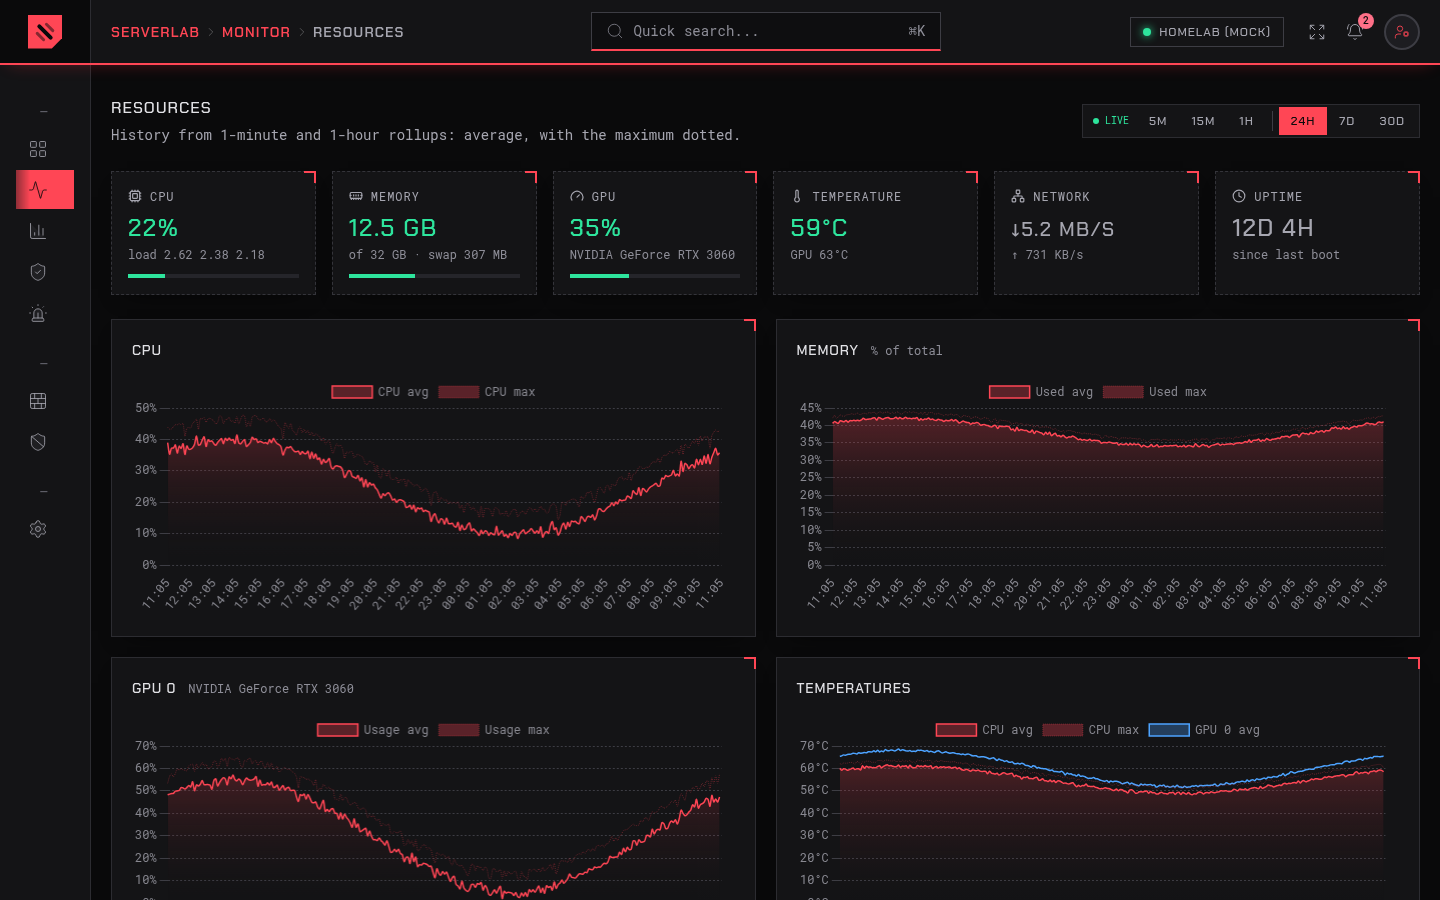
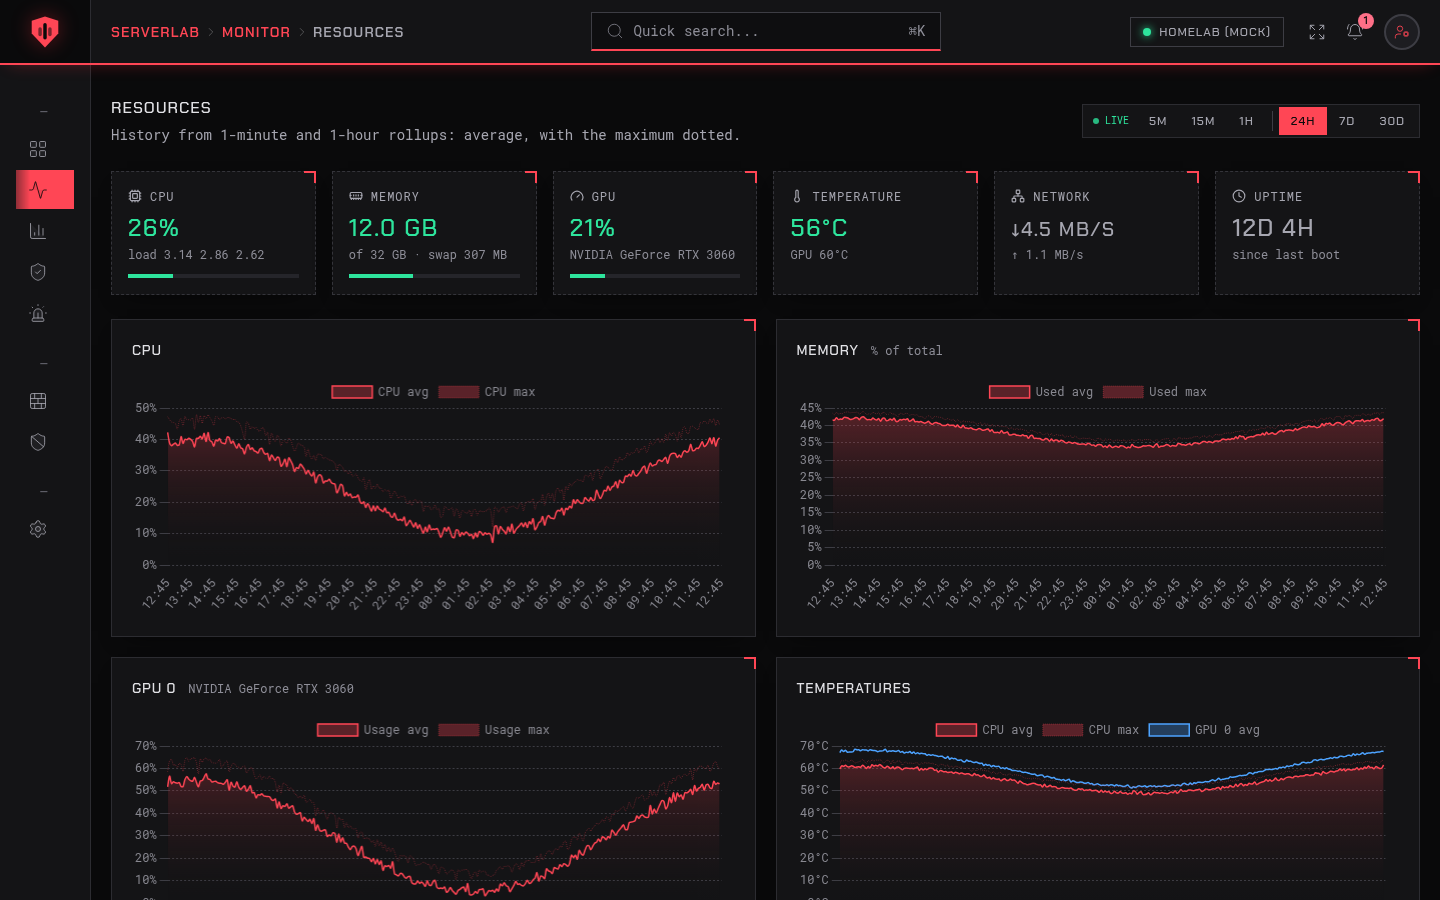
Release 1.0.0
Showcase README with every feature and fresh screenshots (new logo,
mock data), a changelog, and version 1.0.0 in package.json and the
collector.

diff --git a/collector/index.ts b/collector/index.ts
@@ -18,7 +18,7 @@ import { loginEvents } from "@/lib/schema/watcher";
 import { storeLoginEvent } from "@/lib/watcher/login-event-store";
 import { readEnvironment } from "@/lib/environment";
 
-const COLLECTOR_VERSION = "0.1.0";
+const COLLECTOR_VERSION = "1.0.0";
 const SAMPLE_INTERVAL_MILLISECONDS = Math.max(1000, Number(readEnvironment("SAMPLE_INTERVAL_MS") ?? 2000));
 const JOURNAL_CURSOR_KEY = "watcher.journalCursor";
 const BACKFILL_STATE_KEY = "watcher.backfill";

diff --git a/README.md b/README.md
@@ -1,85 +1,121 @@
 <p align="center">
   <picture>
     <source media="(prefers-color-scheme: dark)" srcset="branding/logo-dark.svg">
-    <img src="branding/logo-light.svg" alt="ServerLab" width="360">
+    <img src="branding/logo-light.svg" alt="ServerLab" width="380">
   </picture>
 </p>
 
 <p align="center">
-  A small, Grafana-like dashboard for <strong>one homelab server</strong>.<br>
-  It runs on the server it watches, keeps everything in SQLite, and is reachable only over your Tailscale tailnet.
+  <strong>A small, Grafana-like dashboard for one homelab server.</strong><br>
+  Watch what runs on it, how hard it works and who signs in, and manage its firewall and fail2ban from pages that teach you the command line.
 </p>
 
 <p align="center">
+  <a href="https://github.com/JoshWAMiasco/server_lab/releases/latest"><img alt="Release" src="https://img.shields.io/badge/release-v1.0.0-ff4655"></a>
+  <a href="https://github.com/JoshWAMiasco/server_lab/actions/workflows/ci.yml"><img alt="CI" src="https://github.com/JoshWAMiasco/server_lab/actions/workflows/ci.yml/badge.svg"></a>
   <a href="LICENSE"><img alt="MIT license" src="https://img.shields.io/badge/license-MIT-ff4655"></a>
   <img alt="Ubuntu Server 22.04 to 26.04" src="https://img.shields.io/badge/Ubuntu%20Server-22.04%20%E2%80%93%2026.04-ff4655">
   <img alt="Node.js 22 or later" src="https://img.shields.io/badge/node-%E2%89%A522-ff4655">
 </p>
 
-![The Resources page: CPU, memory, GPU and temperature history](docs/screenshots/resources.png)
-
-## What it shows
-
-ServerLab answers a handful of questions about your box, quickly:
-
-| Page | What you get |
-|---|---|
-| **Lobby** | Everything hosted on the server: Docker containers, systemd services, nginx sites and databases, with icons, health, uptime and "Open" links. Flags anything exposed to your LAN instead of only the tailnet. Add what it misses by hand. |
-| **Resources** | Live CPU, GPU (NVIDIA, AMD, Intel, several at once), memory, temperatures, network and disk, plus 24 h / 7 d / 30 d history. |
-| **Applications** | CPU and memory per app, ranked, as a share of the host and in real units. |
-| **User Watcher** | SSH and web logins with user, time, result and offline geolocation. Imports the history already on the server. |
-| **Alerts** | High CPU, disk almost full, SSH brute force, login from a new country, service down, certificate expiring. Sent to ntfy, Discord, Telegram or in-app. |
-| **Firewall** | UFW on/off, default policies, numbered rules, add and delete rules. **Every control shows the `ufw` command it runs.** |
-| **fail2ban** | Jails, banned addresses, unban and manual ban, or the setup steps when fail2ban isn't installed. **Every control shows the `fail2ban-client` command it runs.** |
-
-### Learn the command line while you click
-
-The Firewall and fail2ban pages are built to teach. Fill in the add-rule form and the exact command updates as you type. Every change shows the command that ran, with its output, in an activity log, and each page ends with a short reference of related commands. Anything you do in the UI, you can copy and do yourself over SSH.
-
-| Firewall | fail2ban |
-|---|---|
-| ![Firewall page](docs/screenshots/firewall.png) | ![fail2ban page](docs/screenshots/fail2ban.png) |
-
-The Firewall page refuses to turn UFW on, or to remove the last rule that lets you in over SSH or Tailscale, unless you confirm you have another way into the machine.
-
-### On your phone
-
-The menu becomes a drawer on small screens: tap outside it, tap a link, or press Escape to close it.
-
-<p>
-  <img src="docs/screenshots/mobile-menu.png" alt="Mobile menu drawer" width="260">
-  &nbsp;
-  <img src="docs/screenshots/mobile-firewall.png" alt="Firewall page on a phone" width="260">
+<p align="center">
+  <a href="#features">Features</a> ·
+  <a href="#install">Install</a> ·
+  <a href="#security-model">Security model</a> ·
+  <a href="#develop">Develop</a> ·
+  <a href="docs/HARDENING.md">Hardening guide</a>
 </p>
 
-## How it works
+![ServerLab Resources page: CPU, memory, GPU and temperature history for the last 24 hours](docs/screenshots/resources.png)
 
-```
- browser ──tailnet──▶ nginx (Tailscale IP, TLS) ──▶ serverlab-web  (Next.js, 127.0.0.1:3000)
-                                                         │ reads / writes requests
-                                                         ▼
-                                                   SQLite (/var/lib/serverlab)
-                                                         ▲ writes samples, runs requests
-                                                         │
-                                                  serverlab-collector ──▶ /proc, /sys, Docker (GET only),
-                                                         │                 journal, nginx configs, GPU tools
-                                                         ▼ only for firewall / fail2ban changes
-                                       serverlab-host-action.service (root, one-shot, ufw + fail2ban-client only)
-```
+## Why ServerLab
 
-- **Two unprivileged services.** `serverlab-web` and `serverlab-collector` run as the `serverlab` user with a strict systemd sandbox. The web process never touches the host.
-- **Read-only monitoring.** ServerLab never starts, stops or changes containers and services.
-- **Two narrow ways to change the host**, both through polkit rules that allow starting exactly one kind of root unit:
-  - the Firewall and fail2ban pages, through a small root helper that re-checks every request and runs only `ufw` and `fail2ban-client`, without a shell;
-  - an opt-in NVIDIA GPU power switch on hybrid-graphics laptops.
+Most monitoring stacks are built for fleets: a time-series database, an agent, a dashboard server and an afternoon of configuration. ServerLab is for the one box under your desk.
 
-  Details and how to remove them: [HARDENING §6](docs/HARDENING.md#6-serverlab-process-privileges).
+- **One install, no extra services.** It runs on the server it watches and keeps everything in a single SQLite file.
+- **Private by default.** It is reachable only over your [Tailscale](https://tailscale.com) tailnet, behind nginx, with one admin account.
+- **Knows a homelab.** It finds your Docker containers, systemd services, nginx sites and databases on its own, and tells you when something is exposed to your LAN.
+- **Teaches as you go.** The Firewall and fail2ban pages show the exact `ufw` and `fail2ban-client` command behind every button.
 
-Built with Next.js 16, React 19, Tailwind CSS 4, SQLite (better-sqlite3 + Drizzle), Chart.js and Server-Sent Events.
+## Features
+
+### Lobby: everything hosted on the server
+
+Cards for every container, service, website and database, with icons, health, uptime and an **Open** link. Anything listening on your LAN instead of only the tailnet gets an "Exposed to LAN" warning. Add what it misses by hand, with your own icon.
+
+![Lobby page with app cards and an exposed-to-LAN warning](docs/screenshots/lobby.png)
+
+### Resources: live and historical metrics
+
+CPU (total and per core), memory and swap, GPUs (NVIDIA, AMD and Intel, several at once), temperatures, network, disk usage and I/O. Live every 2 seconds, with 24-hour, 7-day and 30-day history.
+
+### Applications: who is using the box
+
+CPU and memory per container and per service, ranked, as a share of the host and in the same units `docker stats` and `systemctl status` use.
+
+![Applications page ranking apps by memory](docs/screenshots/applications.png)
+
+### User Watcher: who signed in, and from where
+
+SSH, console and ServerLab sign-ins with result, method, address and offline geolocation (country and city). Tailnet devices are named. History already on the server is imported on first run.
+
+![User Watcher with logins over time and failed attempts by country](docs/screenshots/user-watcher.png)
+
+### Alerts
+
+Ready-made rules for high CPU or memory, hot CPU or GPU, disk almost full, SSH brute force, login from a new country, a service going down or becoming exposed, and an expiring TLS certificate. Edit them or add your own. Alerts appear in the app and can go to **ntfy**, **Discord** or **Telegram**.
+
+![Alerts page with rules and an in-app brute-force alert](docs/screenshots/alerts.png)
+
+### Firewall: manage UFW, learn UFW
+
+Turn UFW on and off, set the default policies and logging, read the numbered rules and delete them, and add rules from a form with presets. **Every control shows the command it runs**, and the preview updates as you type:
+
+![Add-rule form showing the live ufw command](docs/screenshots/firewall-add-rule.png)
+
+- The page won't turn the firewall on, or remove the last rule that lets you in over SSH or Tailscale, until you confirm you have another way into the machine.
+- While UFW is off, it shows your saved rules (`ufw show added`), so you can check them before enabling.
+- A built-in reference lists the commands for everything else, plus the classic Docker-bypasses-UFW gotcha.
+
+![Firewall page with status, default policies and numbered rules](docs/screenshots/firewall.png)
+
+### fail2ban: see bans, lift bans
+
+Every jail with its failed and banned counts, ban rules ("5 tries in 10m, banned for 1h") and the banned addresses, each with an **Unban** button. Ban an address by hand. If fail2ban isn't installed or running, the page walks you through setting it up and gives you a starter `jail.local` that never bans your tailnet.
+
+| A jail | The activity log |
+|---|---|
+| ![sshd jail with banned addresses and unban buttons](docs/screenshots/fail2ban-jail.png) | ![Activity log showing the fail2ban-client command and its output](docs/screenshots/fail2ban-activity.png) |
+
+Every change lands in an activity log with the exact command that ran, its exit code and its output, so you can repeat it in a terminal.
+
+### Works on your phone
+
+On a phone the menu becomes a drawer: tap outside it, tap a link or press Escape to close it. Every page fits the screen without sideways scrolling.
+
+<p align="center">
+  <img src="docs/screenshots/mobile-resources.png" alt="Resources on a phone" width="240">
+  &nbsp;&nbsp;
+  <img src="docs/screenshots/mobile-menu.png" alt="Menu drawer on a phone" width="240">
+  &nbsp;&nbsp;
+  <img src="docs/screenshots/mobile-firewall.png" alt="Firewall page on a phone" width="240">
+</p>
+
+### And the rest
+
+- **Quick search** (⌘K) across pages and everything in the Lobby.
+- **Settings:** data retention, the host name used in links, notification channels with test buttons, active sessions and the admin password.
+- **NVIDIA GPU power switch** for hybrid-graphics laptops used as servers (opt-in).
+- **First-run setup** with a one-time token printed by the installer.
+
+![First-run setup page](docs/screenshots/sign-in.png)
 
 ## Install
 
-You need Ubuntu Server 22.04, 24.04, 25.x or 26.04, Node.js 22 or later installed system-wide, and Tailscale.
+You need:
+- Ubuntu Server 22.04, 24.04, 25.x or 26.04;
+- Node.js 22 or later, installed system-wide ([from NodeSource](docs/HARDENING.md#1-before-you-start); on Ubuntu 26.04 `sudo apt install nodejs` is enough);
+- [Tailscale](https://tailscale.com/download/linux).
 
 ```bash
 git clone https://github.com/JoshWAMiasco/server_lab.git
@@ -87,23 +123,53 @@ cd server_lab
 sudo deploy/install.sh
 ```
 
-`install.sh`:
+The installer:
 
-- creates the `serverlab` user and builds into `/opt/serverlab`;
-- writes `/etc/serverlab/serverlab.env` and migrates the database in `/var/lib/serverlab`;
-- downloads the offline geolocation database;
-- installs and starts the systemd units;
-- prints a one-time setup token. Open `/setup` to create the admin password.
+1. creates an unprivileged `serverlab` user and builds the app into `/opt/serverlab`;
+2. writes `/etc/serverlab/serverlab.env` and creates the database in `/var/lib/serverlab`;
+3. downloads the offline geolocation database (monthly updates via a timer);
+4. installs and starts the systemd services, plus the firewall/fail2ban helper and its polkit rule;
+5. prints a one-time setup token. Open `/setup` to create your admin password.
 
-Re-run it to update. `sudo deploy/install.sh --uninstall` removes the services and keeps your data.
+Then follow the **[hardening guide](docs/HARDENING.md)**: Tailscale, nginx as the only way in, UFW, SSH and fail2ban, with a checklist to verify each step.
 
-Then follow **[docs/HARDENING.md](docs/HARDENING.md)**. It covers Tailscale, nginx as the only door in, firewall, SSH and fail2ban, with a verification checklist.
+| Task | Command |
+|---|---|
+| Update | `git pull && sudo deploy/install.sh` |
+| Reset the admin password | `sudo serverlab reset-password` |
+| Remove (keep data) | `sudo deploy/install.sh --uninstall` |
+| Remove everything | `sudo deploy/install.sh --uninstall --purge` |
 
-Forgot the password? `sudo serverlab reset-password`.
+fail2ban is optional and not installed for you. The fail2ban page shows how.
+
+## Security model
+
+```
+ browser ──tailnet──▶ nginx (Tailscale IP, TLS) ──▶ serverlab-web  (Next.js on 127.0.0.1:3000)
+                                                         │  reads data, queues requests
+                                                         ▼
+                                                   SQLite (/var/lib/serverlab)
+                                                         ▲  writes samples, runs requests
+                                                         │
+                                                  serverlab-collector ──▶ /proc, /sys, Docker (GET only),
+                                                         │                 journal, nginx configs, GPU tools
+                                                         ▼  firewall / fail2ban changes only
+                                       serverlab-host-action.service  (root, one-shot: ufw + fail2ban-client)
+```
+
+- **No root in the app.** The web app and the collector run as `serverlab` under a strict systemd sandbox. The web app never touches the host.
+- **Monitoring is read-only.** ServerLab never starts, stops or changes containers and services, and talks to Docker with GET requests only.
+- **Changes go through one narrow door.** A polkit rule lets `serverlab` start exactly one root unit. That unit runs a helper that:
+  - re-validates every request with the same rules as the web app;
+  - refuses symlinks and files it doesn't expect;
+  - runs only `ufw` and `fail2ban-client`, with fixed argument shapes and no shell.
+- **Sign-in:** one admin with an argon2id-hashed password, session cookies, login throttling, CSP and same-origin checks.
+
+Every privilege, and how to remove it, is listed in [HARDENING §6](docs/HARDENING.md#6-serverlab-process-privileges). Found a problem? See [SECURITY.md](SECURITY.md).
 
 ## Develop
 
-Any OS with Node.js 22. Off Linux (or with `COLLECTOR_DRIVER=mock`), the collector uses a **mock driver** that makes up realistic metrics, containers, logins, firewall rules and fail2ban jails, so every page works without root.
+ServerLab runs on any OS with Node.js 22. Off Linux (or with `COLLECTOR_DRIVER=mock`), a **mock driver** makes up realistic metrics, containers, logins, firewall rules and fail2ban jails, so every page works without root.
 
 ```bash
 npm ci
@@ -115,48 +181,44 @@ EOF
 npm run dev
 ```
 
-Open <http://localhost:3000/setup>. The development setup token is printed in the terminal (and saved in `./data/setup-token`).
+Open <http://localhost:3000/setup>. The setup token is printed in the terminal.
 
 | Command | What it does |
 |---|---|
-| `npm run dev` | Web UI and collector together, reloading on change |
-| `npm run lint` | ESLint, including the project's naming rules |
-| `npm run type-check` | TypeScript |
-| `npm test` | Unit tests (Vitest): parsers, validation, the root helper, jobs |
+| `npm run dev` | Web app and collector together, reloading on change |
+| `npm run lint` / `npm run type-check` | ESLint (with the project's naming rules) and TypeScript |
+| `npm test` | 456 unit tests: parsers with real command output, validation, the root helper, jobs |
 | `npm run build` | Production build of the web app, the collector and the root helper |
-| `npm run test:e2e` | Playwright end-to-end tests on desktop and phone (run `npm run build` first) |
-| `npm run smoke` | Read-only browser check against a running install (`SERVERLAB_PASSWORD=… BASE_URL=…`) |
+| `npm run test:e2e` | 38 Playwright tests on desktop and phone (after `npm run build`; install a browser once with `npx playwright install chromium`) |
+| `npm run smoke` | Read-only browser check of a running install (`SERVERLAB_PASSWORD=… BASE_URL=…`) |
 
-For the end-to-end tests, install a browser once with `npx playwright install chromium`, or point `PLAYWRIGHT_CHROMIUM_PATH` at one you have.
-
-### Layout
+Built with Next.js 16, React 19, Tailwind CSS 4, SQLite (better-sqlite3 + Drizzle), Chart.js and Server-Sent Events.
 
 ```
-app/          Next.js App Router: dashboard pages, login and setup, server actions, /api/stream (SSE)
+app/          Pages, server actions, /api/stream (live data)
 components/   UI components
-lib/          Shared by web and collector: database, schema, queries, authentication, security
-collector/    The metrics process: linux and mock drivers, parsers (with captured fixtures), jobs, alerts
+lib/          Shared code: database, schema, queries, authentication, firewall/fail2ban rules
+collector/    The metrics process: linux and mock drivers, parsers and fixtures, jobs, alerts
 host-action/  The root helper for firewall and fail2ban changes
 deploy/       install.sh, systemd units, polkit rules, nginx examples
 e2e/          Playwright tests
-docs/         HARDENING.md (install and hardening guide), plan/ (design notes), VALIDATION-REPORT.md
+docs/         Hardening guide, design notes, validation report, screenshots
 ```
 
-## Contributing
-
-Issues and pull requests are welcome. See [CONTRIBUTING.md](CONTRIBUTING.md). To report a security problem privately, see [SECURITY.md](SECURITY.md).
+Contributions are welcome. Read [CONTRIBUTING.md](CONTRIBUTING.md) first.
 
 ## Known limitations
 
-- **Process names for listeners.** The collector is unprivileged, so `ss -p` names only processes it owns. Other listeners appear as "Port N"; exposure checks still work.
-- **Intel GPU stats** need `intel_gpu_top` and `CAP_PERFMON` (see HARDENING.md).
+- **Listener process names.** The collector is unprivileged, so `ss -p` names only processes it owns. Other listeners appear as "Port N"; exposure checks still work.
+- **Intel GPU stats** need `intel_gpu_top` and `CAP_PERFMON` (see the hardening guide).
 - **nginx inside Docker** is not parsed; its container shows as a normal app.
-- **Docker bypasses UFW** for published ports. The Firewall page explains this; publish containers on `127.0.0.1` and expose them through nginx.
+- **Docker bypasses UFW** for published ports. Publish containers on `127.0.0.1` and expose them through nginx.
 
 ## Credits
 
-- Geolocation: [IP Geolocation by DB-IP](https://db-ip.com). The "IP to City Lite" database is licensed under [CC BY 4.0](https://creativecommons.org/licenses/by/4.0/). It is downloaded at install time and monthly, not stored here.
+- Geolocation by [DB-IP](https://db-ip.com): the "IP to City Lite" database, [CC BY 4.0](https://creativecommons.org/licenses/by/4.0/). It is downloaded at install time and monthly, not stored here.
 - Application icons in `catalog/icons/` come from [dashboard-icons](https://github.com/homarr-labs/dashboard-icons) (Apache-2.0). Product names and logos belong to their owners.
+- Screenshots show the built-in mock data, not a real server.
 
 ## License
 

diff --git a/CHANGELOG.md b/CHANGELOG.md
@@ -1,0 +1,29 @@
+# Changelog
+
+## 1.0.0 — 2026-11-01
+
+The first public release of ServerLab: a small, Grafana-like dashboard for one homelab server, reachable only over your Tailscale tailnet.
+
+### Monitoring
+- **Lobby:** every Docker container, systemd service, nginx site and database on the server, with icons, health, uptime and Open links. Flags anything exposed to the LAN; add items and icons by hand.
+- **Resources:** live CPU, memory, GPUs (NVIDIA, AMD, Intel), temperatures, network and disk, with 24 h, 7 d and 30 d history.
+- **Applications:** CPU and memory per container and service, ranked.
+- **User Watcher:** SSH, console and web sign-ins with offline geolocation; imports existing login history.
+- **Alerts:** ready-made and custom rules, delivered in-app and to ntfy, Discord or Telegram.
+
+### New in this release
+- **Firewall page (UFW):** turn the firewall on and off, set default policies and logging, list, add and delete rules. Every control shows the exact `ufw` command it runs; the add-rule form previews it as you type. A lockout guard asks for confirmation before anything could cut off SSH or Tailscale access.
+- **fail2ban page:** jails, banned addresses, unban and manual ban, each showing its `fail2ban-client` command, with setup steps and a starter `jail.local` when fail2ban is missing.
+- **Activity log** on both pages with every command that ran, its exit code and output.
+- **Root helper** (`serverlab-host-action.service`) behind both pages: a polkit rule lets the unprivileged `serverlab` user start only this unit, which re-validates each request and runs only `ufw` and `fail2ban-client`, without a shell.
+- **Mobile:** the menu is now a drawer that closes on a tap outside it, a link, the close button or Escape; every page fits a phone screen.
+- **New logo** ("Bastion"), app icons and social preview.
+- **Tests:** 456 unit tests and a 38-test Playwright end-to-end suite (desktop and phone); CI on every push.
+
+### Fixed
+- The mobile menu could not be closed by tapping outside it, stayed open after navigating, and closed by itself while scrolling.
+- The top bar, Lobby tabs and chart headers overflowed narrow screens.
+- Page titles are real headings for screen readers.
+
+### Upgrading from a pre-release install
+`git pull && sudo deploy/install.sh`. Data, settings and the admin password are kept; one database migration runs automatically.
